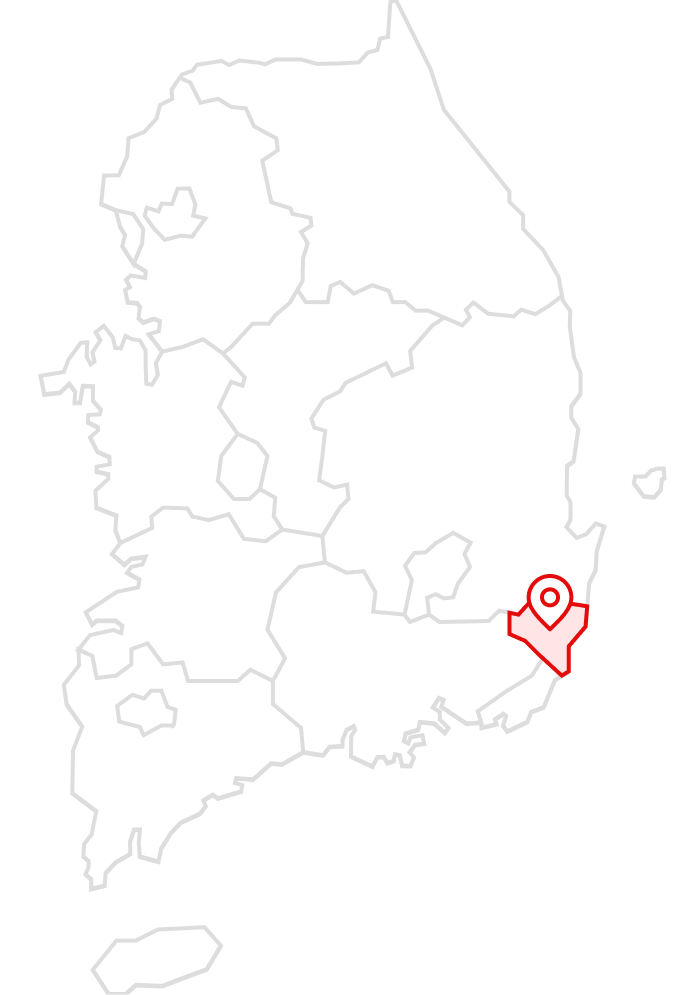
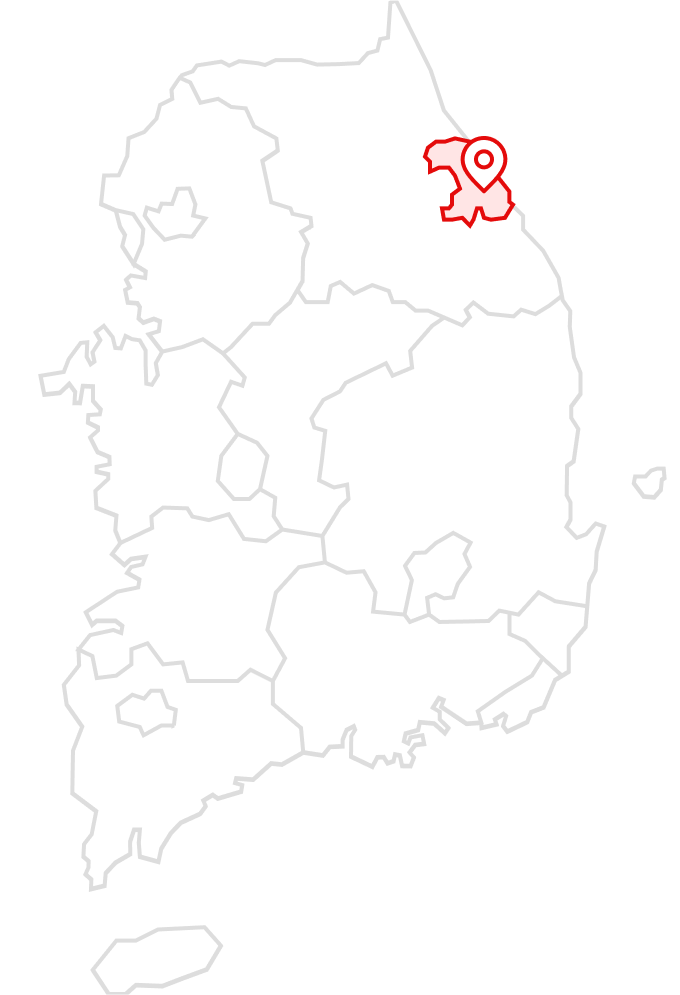
ㅅㅈ

Changed region(s): [[0.6176, 0.1246, 0.7721, 0.2492], [0.7412, 0.5608, 0.8647, 0.6854]]

diff --git a/work/tktravel/index.php b/work/tktravel/index.php
@@ -3256,8 +3256,9 @@
 							<div class="tab_nav on">
 								<span class="link">강원도</span>
 							</div>
+							<!-- 260716 수정2 -->
 							<div class="tab_nav">
-								<span class="link">서울/경기/인천</span>
+								<span class="link">서울</span>
 							</div>
 							<div class="tab_nav">
 								<span class="link">충청북도</span>
@@ -3283,11 +3284,19 @@
 							<div class="tab_nav">
 								<span class="link">부산광역시</span>
 							</div>
+							<!-- 260716 수정 -->
 							<div class="tab_nav">
-								<span class="link">울산광역시</span>
+								<span class="link">강릉시</span>
 							</div>
 							<div class="tab_nav">
 								<span class="link">제주도</span>
+							</div>
+							<!-- 260716 수정2 -->
+							<div class="tab_nav">
+								<span class="link">경기도</span>
+							</div>
+							<div class="tab_nav">
+								<span class="link">인천시</span>
 							</div>
 						</div>
 						<div class="tab_contbox">
@@ -3560,7 +3569,8 @@
 										</a>
 									</div>
 								</div>	
-							</div><div class="tab_cont">
+							</div>
+							<div class="tab_cont">
 								<div class="map">
 									<img src="<?php echo $path?>img/ms14_map7.png" alt="" class="img">
 								</div>
@@ -3694,7 +3704,8 @@
 										</a>
 									</div>
 								</div>	
-							</div><div class="tab_cont">
+							</div>
+							<div class="tab_cont">
 								<div class="map">
 									<img src="<?php echo $path?>img/ms14_map10.png" alt="" class="img">
 								</div>
@@ -3787,6 +3798,98 @@
 							<div class="tab_cont">
 								<div class="map">
 									<img src="<?php echo $path?>img/ms14_map12.png" alt="" class="img">
+								</div>
+								<div class="swiper ms14_swiper">					
+									<div class="swiper-wrapper">
+										<a href="<?php echo $path ?>product/view.php" class="swiper-slide item">
+											<div class="imgbox">
+												<img src="<?php echo $path ?>img/prd_pic6.jpg" alt="" class="img">
+											</div>
+											<div class="txtbox">
+												<p class="tit">튀르키예 일주 9일 YP</p>
+												<div class="pricebox">
+													<p class="ori">1,358,000원</p>
+													<p class="price">1,018,500원</p>
+												</div>
+											</div>
+										</a>
+										<a href="<?php echo $path ?>product/view.php" class="swiper-slide item">
+											<div class="imgbox">
+												<img src="<?php echo $path ?>img/prd_pic7.jpg" alt="" class="img">
+											</div>
+											<div class="txtbox">
+												<p class="tit">튀르키예 일주 9일 YP</p>
+												<div class="pricebox">
+													<p class="ori">1,358,000원</p>
+													<p class="price">1,018,500원</p>
+												</div>
+											</div>
+										</a>
+										<a href="<?php echo $path ?>product/view.php" class="swiper-slide item">
+											<div class="imgbox">
+												<img src="<?php echo $path ?>img/prd_pic8.jpg" alt="" class="img">
+											</div>
+											<div class="txtbox">
+												<p class="tit">튀르키예 일주 9일 YP</p>
+												<div class="pricebox">
+													<p class="ori">1,358,000원</p>
+													<p class="price">1,018,500원</p>
+												</div>
+											</div>
+										</a>
+									</div>
+								</div>	
+							</div>
+							
+							<!-- 260716 수정2 -->
+							<div class="tab_cont">
+								<div class="map">
+									<img src="<?php echo $path?>img/ms14_map13.png" alt="" class="img">
+								</div>
+								<div class="swiper ms14_swiper">					
+									<div class="swiper-wrapper">
+										<a href="<?php echo $path ?>product/view.php" class="swiper-slide item">
+											<div class="imgbox">
+												<img src="<?php echo $path ?>img/prd_pic6.jpg" alt="" class="img">
+											</div>
+											<div class="txtbox">
+												<p class="tit">튀르키예 일주 9일 YP</p>
+												<div class="pricebox">
+													<p class="ori">1,358,000원</p>
+													<p class="price">1,018,500원</p>
+												</div>
+											</div>
+										</a>
+										<a href="<?php echo $path ?>product/view.php" class="swiper-slide item">
+											<div class="imgbox">
+												<img src="<?php echo $path ?>img/prd_pic7.jpg" alt="" class="img">
+											</div>
+											<div class="txtbox">
+												<p class="tit">튀르키예 일주 9일 YP</p>
+												<div class="pricebox">
+													<p class="ori">1,358,000원</p>
+													<p class="price">1,018,500원</p>
+												</div>
+											</div>
+										</a>
+										<a href="<?php echo $path ?>product/view.php" class="swiper-slide item">
+											<div class="imgbox">
+												<img src="<?php echo $path ?>img/prd_pic8.jpg" alt="" class="img">
+											</div>
+											<div class="txtbox">
+												<p class="tit">튀르키예 일주 9일 YP</p>
+												<div class="pricebox">
+													<p class="ori">1,358,000원</p>
+													<p class="price">1,018,500원</p>
+												</div>
+											</div>
+										</a>
+									</div>
+								</div>	
+							</div>
+							<div class="tab_cont">
+								<div class="map">
+									<img src="<?php echo $path?>img/ms14_map14.png" alt="" class="img">
 								</div>
 								<div class="swiper ms14_swiper">					
 									<div class="swiper-wrapper">

diff --git a/work/tktravel/main/index2.php b/work/tktravel/main/index2.php
@@ -3084,8 +3084,9 @@
 							<div class="tab_nav on">
 								<span class="link">강원도</span>
 							</div>
+							<!-- 260716 수정2 -->
 							<div class="tab_nav">
-								<span class="link">서울/경기/인천</span>
+								<span class="link">서울</span>
 							</div>
 							<div class="tab_nav">
 								<span class="link">충청북도</span>
@@ -3111,11 +3112,19 @@
 							<div class="tab_nav">
 								<span class="link">부산광역시</span>
 							</div>
+							<!-- 260716 수정 -->
 							<div class="tab_nav">
-								<span class="link">울산광역시</span>
+								<span class="link">강릉시</span>
 							</div>
 							<div class="tab_nav">
 								<span class="link">제주도</span>
+							</div>
+							<!-- 260716 수정2 -->
+							<div class="tab_nav">
+								<span class="link">경기도</span>
+							</div>
+							<div class="tab_nav">
+								<span class="link">인천시</span>
 							</div>
 						</div>
 						<div class="tab_contbox">
@@ -3388,7 +3397,8 @@
 										</a>
 									</div>
 								</div>	
-							</div><div class="tab_cont">
+							</div>
+							<div class="tab_cont">
 								<div class="map">
 									<img src="<?php echo $path?>img/ms14_map7.png" alt="" class="img">
 								</div>
@@ -3522,7 +3532,8 @@
 										</a>
 									</div>
 								</div>	
-							</div><div class="tab_cont">
+							</div>
+							<div class="tab_cont">
 								<div class="map">
 									<img src="<?php echo $path?>img/ms14_map10.png" alt="" class="img">
 								</div>
@@ -3615,6 +3626,97 @@
 							<div class="tab_cont">
 								<div class="map">
 									<img src="<?php echo $path?>img/ms14_map12.png" alt="" class="img">
+								</div>
+								<div class="swiper ms14_swiper">					
+									<div class="swiper-wrapper">
+										<a href="<?php echo $path ?>product/view.php" class="swiper-slide item">
+											<div class="imgbox">
+												<img src="<?php echo $path ?>img/prd_pic6.jpg" alt="" class="img">
+											</div>
+											<div class="txtbox">
+												<p class="tit">튀르키예 일주 9일 YP</p>
+												<div class="pricebox">
+													<p class="ori">1,358,000원</p>
+													<p class="price">1,018,500원</p>
+												</div>
+											</div>
+										</a>
+										<a href="<?php echo $path ?>product/view.php" class="swiper-slide item">
+											<div class="imgbox">
+												<img src="<?php echo $path ?>img/prd_pic7.jpg" alt="" class="img">
+											</div>
+											<div class="txtbox">
+												<p class="tit">튀르키예 일주 9일 YP</p>
+												<div class="pricebox">
+													<p class="ori">1,358,000원</p>
+													<p class="price">1,018,500원</p>
+												</div>
+											</div>
+										</a>
+										<a href="<?php echo $path ?>product/view.php" class="swiper-slide item">
+											<div class="imgbox">
+												<img src="<?php echo $path ?>img/prd_pic8.jpg" alt="" class="img">
+											</div>
+											<div class="txtbox">
+												<p class="tit">튀르키예 일주 9일 YP</p>
+												<div class="pricebox">
+													<p class="ori">1,358,000원</p>
+													<p class="price">1,018,500원</p>
+												</div>
+											</div>
+										</a>
+									</div>
+								</div>	
+							</div>
+							<!-- 260716 수정2 -->
+							<div class="tab_cont">
+								<div class="map">
+									<img src="<?php echo $path?>img/ms14_map13.png" alt="" class="img">
+								</div>
+								<div class="swiper ms14_swiper">					
+									<div class="swiper-wrapper">
+										<a href="<?php echo $path ?>product/view.php" class="swiper-slide item">
+											<div class="imgbox">
+												<img src="<?php echo $path ?>img/prd_pic6.jpg" alt="" class="img">
+											</div>
+											<div class="txtbox">
+												<p class="tit">튀르키예 일주 9일 YP</p>
+												<div class="pricebox">
+													<p class="ori">1,358,000원</p>
+													<p class="price">1,018,500원</p>
+												</div>
+											</div>
+										</a>
+										<a href="<?php echo $path ?>product/view.php" class="swiper-slide item">
+											<div class="imgbox">
+												<img src="<?php echo $path ?>img/prd_pic7.jpg" alt="" class="img">
+											</div>
+											<div class="txtbox">
+												<p class="tit">튀르키예 일주 9일 YP</p>
+												<div class="pricebox">
+													<p class="ori">1,358,000원</p>
+													<p class="price">1,018,500원</p>
+												</div>
+											</div>
+										</a>
+										<a href="<?php echo $path ?>product/view.php" class="swiper-slide item">
+											<div class="imgbox">
+												<img src="<?php echo $path ?>img/prd_pic8.jpg" alt="" class="img">
+											</div>
+											<div class="txtbox">
+												<p class="tit">튀르키예 일주 9일 YP</p>
+												<div class="pricebox">
+													<p class="ori">1,358,000원</p>
+													<p class="price">1,018,500원</p>
+												</div>
+											</div>
+										</a>
+									</div>
+								</div>	
+							</div>
+							<div class="tab_cont">
+								<div class="map">
+									<img src="<?php echo $path?>img/ms14_map14.png" alt="" class="img">
 								</div>
 								<div class="swiper ms14_swiper">					
 									<div class="swiper-wrapper">
